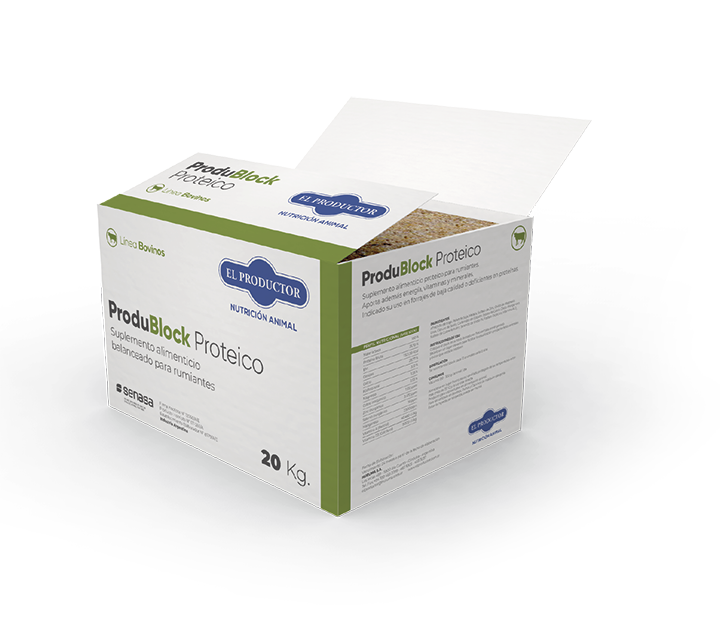
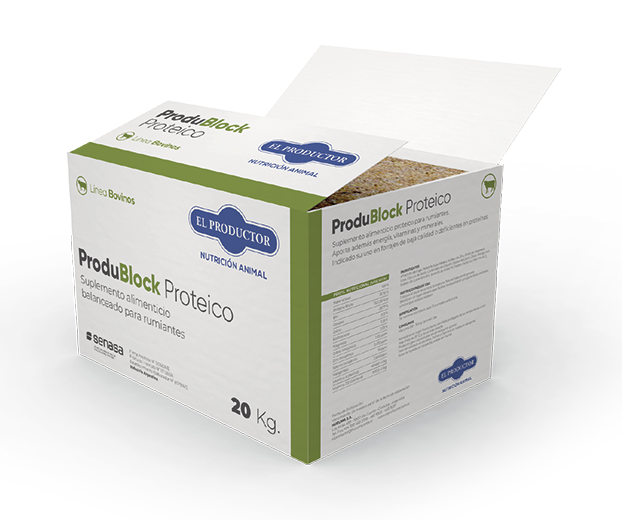
Agregado de Hero con imagen de bovinos

Changed region(s): [[0.0916, 0.2154, 0.8248, 0.9231], [0.2138, 0.4, 0.2444, 0.4308]]

diff --git a/index.html b/index.html
@@ -17,7 +17,7 @@
         </div>
       </div>
     </nav>
-    <div class="container text-center py-5">
+    <div class="container text-center py-5 my-4">
       <div class="row justify-content-center">
         <div class="col-md-8">
           <h1 class="display-4 mb-5">Ofrezca a sus clientes un producto excelente</h1>
@@ -25,10 +25,17 @@
         </div>
       </div>
     </div>
+    <div class="hero-area">
+      <div class="container mb-4">
+        <div class="row text-right">
+          <div class="col offset-lg-5 col-lg-7 offset-md-4 col-md-8 offset-sm-2 col-sm-10"><img src="images/packaging.png" alt="alt"/></div>
+        </div>
+      </div>
+    </div>
     <div class="container">
       <div class="row">
         <div class="col-md-7">
-          <div class="text-center"><img class="img-fluid" src="images/logo-produblock.svg" alt="alt" width="360"/><img class="img-fluid" src="images/packaging.jpg" alt="alt"/></div>
+          <div class="text-center"><img class="img-fluid mt-5 mb-5" src="images/logo-produblock.svg" alt="alt" width="360"/></div>
           <ul>
             <li>Estimula el apetito de los animales por incrementar la actividad rumiante.</li>
             <li>Aumenta la carga animal y la ganancia de peso, incrementando así la receptividad de los campos y las producciones animales individuales.</li>

diff --git a/css/app.css b/css/app.css
@@ -18,3 +18,24 @@
 .btn-brand {
   background-color: #7B9A41;
   color: white; }
+
+.hero-area {
+  position: relative;
+  margin-bottom: 8em;
+  height: 450px;
+  background-color: #2c2e72;
+  z-index: 1;
+  background-image: url(../images/saltlick-edit.jpg);
+  background-repeat: no-repeat;
+  background-position: center bottom;
+  background-size: cover;
+  /*overflow: hidden; */
+  /*background-attachment: fixed; */ }
+  .hero-area .container .row {
+    position: relative; }
+    .hero-area .container .row .col {
+      position: absolute;
+      bottom: -550px; }
+      .hero-area .container .row .col img {
+        width: 100%;
+        height: auto; }

diff --git a/sass/components/_hero.scss b/sass/components/_hero.scss
@@ -1,0 +1,34 @@
+.hero-area{
+
+    position: relative;
+    margin-bottom: 8em;
+    height: 450px; 
+    background-color: #2c2e72;
+    z-index: 1;
+    background-image: url(../images/saltlick-edit.jpg);
+    background-repeat: no-repeat;
+    background-position: center bottom;
+    background-size: cover;
+    /*overflow: hidden; */
+    /*background-attachment: fixed; */
+
+    .container {
+      .row {
+        position: relative;
+        .col {
+
+          position: absolute;
+          bottom: -550px;
+
+          img {
+            width: 100%;
+            height: auto;            
+          }
+
+        }
+        
+      }
+
+    }
+
+}

diff --git a/html/hero.html b/html/hero.html
@@ -1,0 +1,10 @@
+
+<div class="hero-area">
+  <div class="container">
+    <div class="row">
+      <div class="col-lg-5">
+        <div class="text-lg-left text-center"><img class="img-fluid" src="images/packaging.png" alt="alt"/></div>
+      </div>
+    </div>
+  </div>
+</div>

diff --git a/sass/app.scss b/sass/app.scss
@@ -3,3 +3,4 @@
 @import './components/typography';
 @import './components/navbar';
 @import './components/buttons';
+@import './components/hero';
